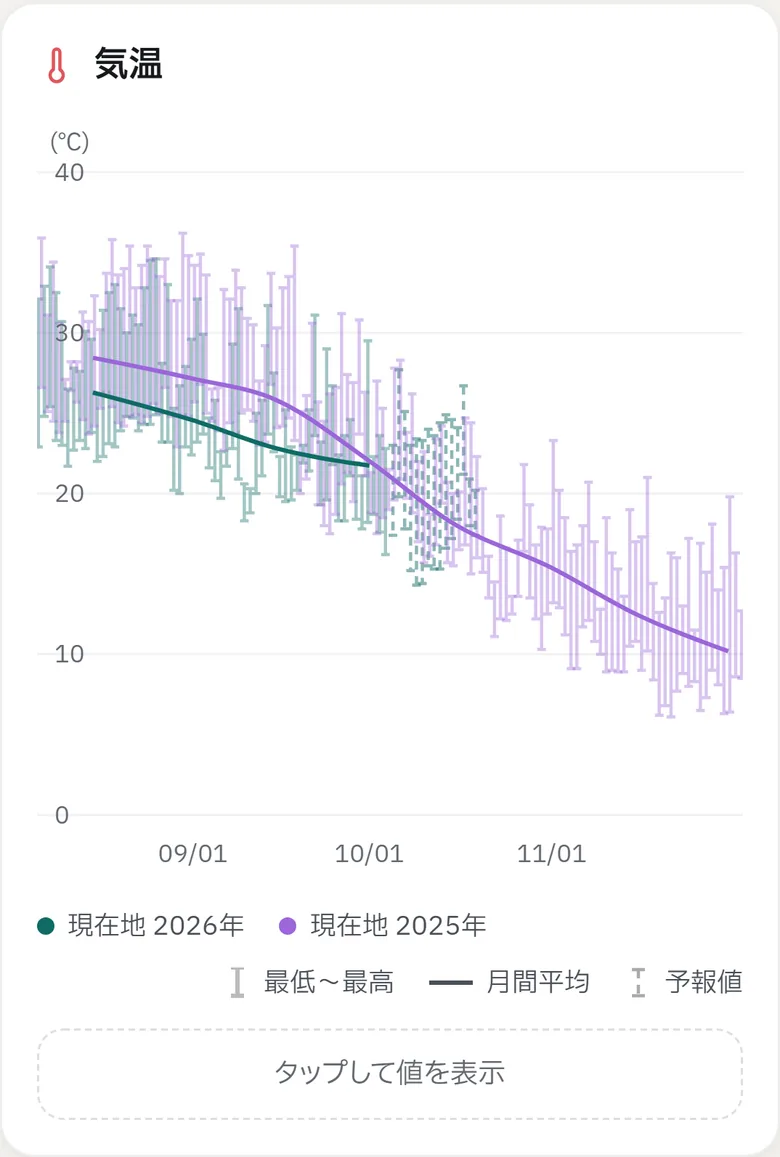
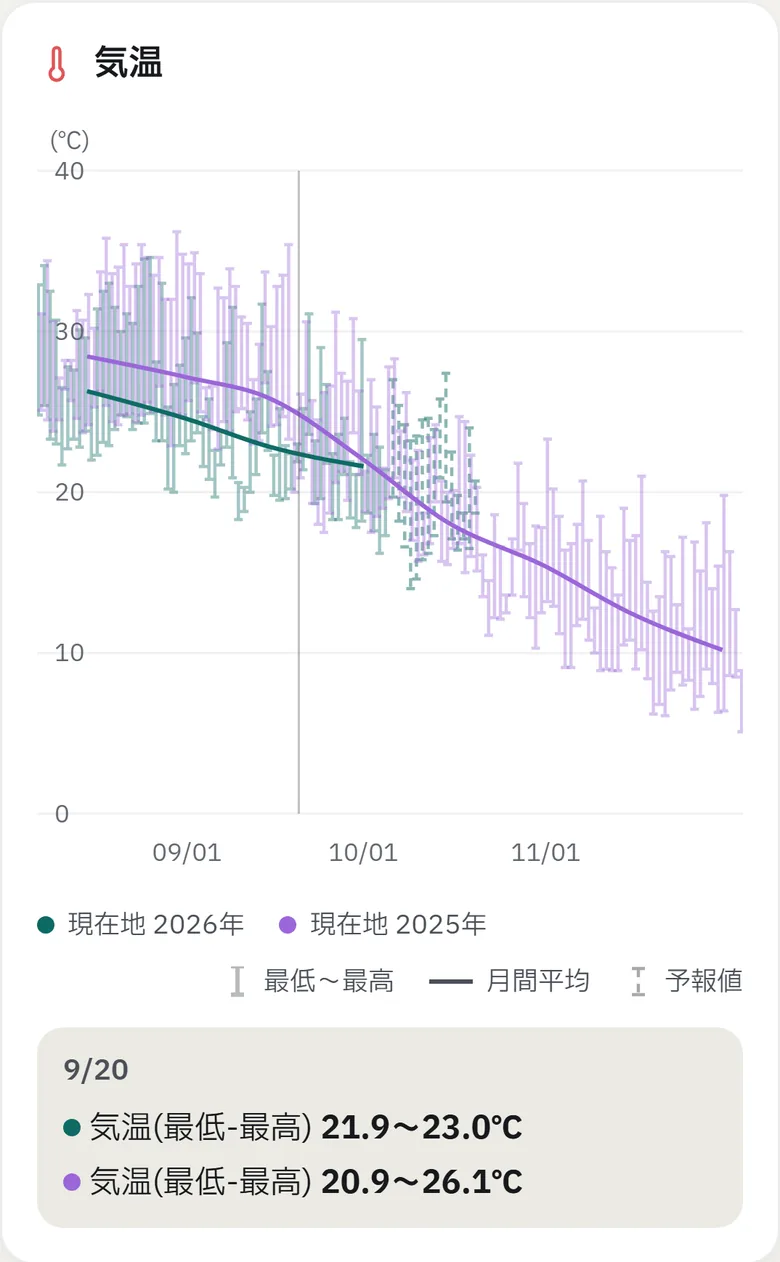
feat(lp): 空もように時間別の表、空くらべに日付をタップした状態の画面を載せる
- 空もようの章の最後に時間別の表の画面（「1時間ごとの表で、作業の時間を選ぶ。」）
- 空くらべの画面を、日付をタップしてその日の値と去年との差が出た状態に撮り直す（気温 9/20、積算温度 10/4＝18日遅い）
- 撮影スクリプトに ONLY=extra（時間別の表と空くらべだけ）と、日付に指を置いて撮る処理を追加
- 添え書きを言葉のまとまりで折り返す（.lp-phrase）

diff --git a/src/components/lp/MoyoChapter.tsx b/src/components/lp/MoyoChapter.tsx
@@ -4,8 +4,8 @@
 // 動きを減らす設定では、自動切替と切り替えの動きだけを止め、押して切り替える操作は同じにする。
 import { useEffect, useState, type CSSProperties } from 'react';
 import { logLpMoyoToggle } from '../../lib/analytics';
-import { useChapterView, useReduced, useVisibility } from './hooks';
-import { LineReveal } from './primitives';
+import { useChapterView, useInViewOnce, useReduced, useVisibility } from './hooks';
+import { LineReveal, Shot } from './primitives';
 import './moyo.css';
 
 const MODES = [
@@ -19,6 +19,7 @@ export function MoyoChapter() {
   const reduced = useReduced();
   const ref = useChapterView<HTMLElement>('moyo');
   const [deviceRef, visible, seen] = useVisibility<HTMLDivElement>(0.35);
+  const [hourlyRef, hourlySeen] = useInViewOnce<HTMLDivElement>(0.2);
   const [mode, setMode] = useState(0);
   const [touched, setTouched] = useState(false);
   // 読み上げる文。押したときだけ書き換える（自動切替では変えない＝3.2秒ごとに読み上げない）
@@ -84,6 +85,10 @@ export function MoyoChapter() {
           {RAIN_WORDS.map((w, i) => <li key={w} style={{ '--i': i } as CSSProperties}>{w}</li>)}
         </ul>
         <p className="lp-moyo__rainnote">3mmまでの雨は、3段階のことばで。</p>
+      </div>
+      <div ref={hourlyRef} className={hourlySeen || reduced ? 'lp-moyo__hourly is-in' : 'lp-moyo__hourly'}>
+        <p className="lp-moyo__hourlylead"><span className="lp-phrase">1時間ごとの表で、</span><span className="lp-phrase">作業の時間を選ぶ。</span></p>
+        <Shot src="/lp/moyo-hourly.webp" alt="空もよう — 時間別の表（天気・気温・紫外線・降水確率・降水量・風速・風向き）" width={780} height={968} />
       </div>
     </section>
   );

diff --git a/src/components/lp/moyo.css b/src/components/lp/moyo.css
@@ -34,12 +34,19 @@
 @keyframes lp-drop { to { opacity: 1; transform: none; } }
 .lp-moyo__rainnote { margin: 18px 0 0; text-align: center; font-size: 12.5px; opacity: 0.9; }
 
+/* 時間別の表（章の最後に横いっぱいで） */
+.lp-moyo__hourly { justify-self: center; width: min(90vw, 520px); display: grid; gap: 16px; opacity: 0; transform: translateY(40px); transition: opacity 0.9s ease, transform 1.1s var(--lp-ease); }
+.lp-moyo__hourly.is-in { opacity: 1; transform: none; }
+.lp-moyo__hourlylead { margin: 0; text-align: center; font-family: var(--lp-mincho); font-weight: 800; font-size: clamp(18px, 2.6vw, 24px); text-shadow: 0 2px 18px rgba(20, 50, 80, 0.3); }
+
 @media (min-width: 960px) {
   .lp-moyo { grid-template-columns: 1.1fr 0.9fr; align-items: center; }
+  .lp-moyo__hourly { grid-column: 1 / -1; margin-top: 24px; }
 }
 /* 動きを減らす設定: 切り替えは押したときだけ・動きなしで。雨のことばは最初から置く */
 .lp-moyo--still .lp-moyo__phone img, .lp-moyo--still .lp-moyo__modes button { transition: none; }
 .lp-moyo--still .lp-moyo__rain li { opacity: 1; transform: none; animation: none; }
+.lp-moyo--still .lp-moyo__hourly { transition: none; }
 @media (prefers-reduced-motion: reduce) {
   .lp-moyo__rain li { opacity: 1; transform: none; animation: none !important; }
   .lp-moyo__phone img, .lp-moyo__modes button { transition: none; }

diff --git a/src/components/lp/chapters.test.tsx b/src/components/lp/chapters.test.tsx
@@ -77,6 +77,7 @@ describe('KurabeChapter', () => {
     expect(screen.getByText('図は模式です。数字は東京・2026年の実績（1月1日から・10℃基準）。')).toBeTruthy();
     for (const t of ['年をまたいで、重ねて比べる', '地点を並べて、違いを比べる', '積算温度を、自動で計算']) expect(screen.getByText(t)).toBeTruthy();
     expect(screen.getAllByRole('img', { name: /空くらべ/ })).toHaveLength(2);
+    expect(document.querySelector('.lp-kurabe__shotlead')!.textContent).toBe('日付をタップすると、その日の値と去年との差。');
   });
 });
 
@@ -90,6 +91,8 @@ describe('MoyoChapter', () => {
     expect(container.querySelector('[aria-live="polite"]')!.textContent).toBe('');
     expect(container.querySelector('.lp-moyo__phone img.is-on')!.getAttribute('src')).toBe('/lp/moyo-risk.webp');
     for (const w of ['ぽつぽつ', 'カッパ？', 'カッパ！']) expect(screen.getByText(w)).toBeTruthy();
+    expect(container.querySelector('.lp-moyo__hourlylead')!.textContent).toBe('1時間ごとの表で、作業の時間を選ぶ。');
+    expect(screen.getByRole('img', { name: /時間別の表/ })).toBeTruthy();
   });
   it('押すと写真と説明が一緒に切り替わり、GA4 に記録する（動きを減らす設定でも押せる）', () => {
     const { container } = render(<MoyoChapter />);

diff --git a/src/components/lp/KurabeChapter.tsx b/src/components/lp/KurabeChapter.tsx
@@ -71,9 +71,10 @@ export function KurabeChapter() {
         </ul>
       </div>
       </div>
+      <p className="lp-kurabe__shotlead"><span className="lp-phrase">日付をタップすると、</span><span className="lp-phrase">その日の値と去年との差。</span></p>
       <div className="lp-kurabe__shots">
-        <Shot src="/lp/kurabe-temp.webp" alt="空くらべ — 今年と去年の気温を重ねたグラフ" width={780} height={1157} />
-        <Shot src="/lp/kurabe-gdd.webp" alt="空くらべ — 有効積算温度のグラフ（今年と去年）" width={780} height={1253} />
+        <Shot src="/lp/kurabe-temp.webp" alt="空くらべ — 今年と去年の気温を重ねたグラフ。9/20 をタップして、両年の最低・最高気温を表示" width={780} height={1262} />
+        <Shot src="/lp/kurabe-gdd.webp" alt="空くらべ — 有効積算温度のグラフ。10/4 をタップして、累積の差（−252℃・18日遅い）を表示" width={780} height={1357} />
       </div>
     </section>
   );

diff --git a/src/components/lp/kurabe.css b/src/components/lp/kurabe.css
@@ -32,6 +32,7 @@
 .lp-kurabe__points li { opacity: 0.3; transform: translateX(-8px); transition: opacity 0.5s ease, transform 0.6s var(--lp-ease); }
 .lp-kurabe__points li.is-on { opacity: 1; transform: none; }
 
+.lp-kurabe__shotlead { margin: 0 0 24px; padding: 0 var(--lp-gutter); text-align: center; font-family: var(--lp-mincho); font-weight: 800; font-size: clamp(18px, 2.6vw, 24px); text-shadow: 0 2px 18px rgba(20, 50, 80, 0.3); }
 .lp-kurabe__shots { display: flex; flex-wrap: wrap; justify-content: center; gap: 28px; padding: 0 var(--lp-gutter) 16vh; }
 .lp-kurabe__shots .lp-shot { width: min(80vw, 330px); }
 .lp-kurabe__shots .lp-shot:nth-child(2) { transform: translateY(48px); }

diff --git a/src/components/lp/lp.css b/src/components/lp/lp.css
@@ -48,6 +48,9 @@
 .lp-lines.is-in .lp-line__in { transform: none; }
 h2.lp-lines { font-size: clamp(30px, 7.6vw, 64px); }
 
+/* 言葉のまとまりで折り返す（途中で切らない） */
+.lp-phrase { display: inline-block; }
+
 /* 縦書きの添え書き */
 .lp-vertical {
   writing-mode: vertical-rl;
